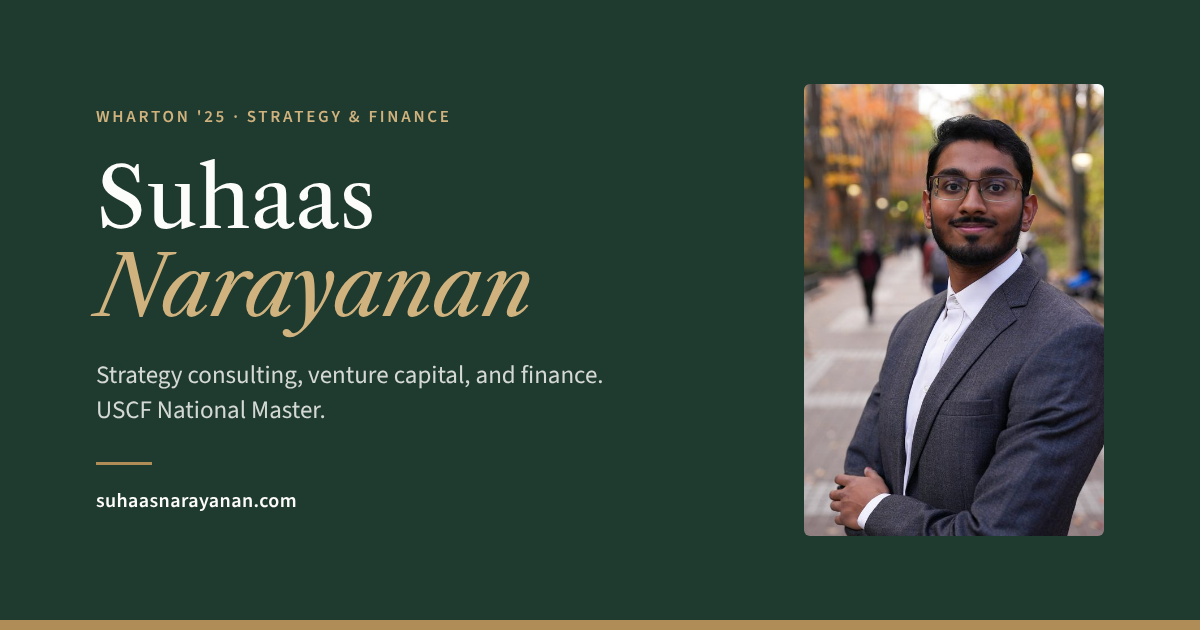
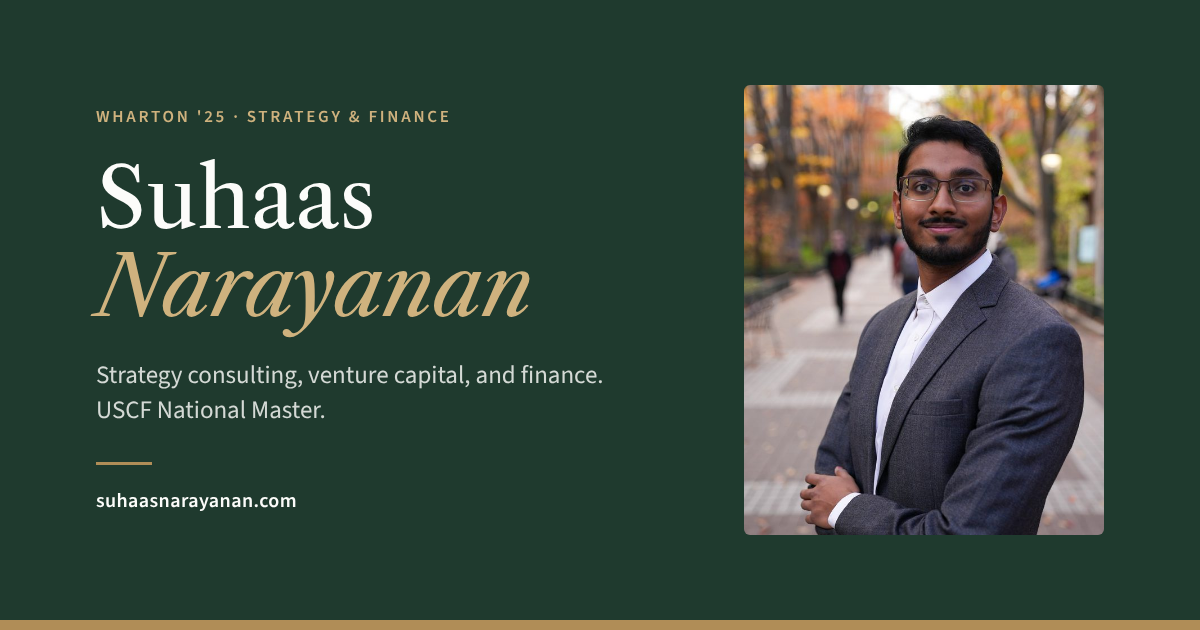
Link preview: show the full 4:5 headshot, matching the homepage
Claude-Session: https://claude.ai/code/session_019tTTKEimajXEDPjQ9YTaBZ

Changed region(s): [[0.6167, 0.1206, 0.925, 0.8746]]

diff --git a/projects/index.html b/projects/index.html
@@ -9,11 +9,11 @@
 <meta property="og:description" content="Projects by Suhaas Narayanan: real estate price prediction, Premier League goal modeling, a Hurricane Katrina natural experiment, a DocuSign LBO, a Maze Therapeutics VC valuation, and a chess rating chart.">
 <meta property="og:type" content="website">
 <meta property="og:site_name" content="Suhaas Narayanan">
-<meta property="og:image" content="https://suhaasnarayanan.com/og-home.png?v=3">
+<meta property="og:image" content="https://suhaasnarayanan.com/og-home.png?v=4">
 <meta property="og:image:width" content="1200">
 <meta property="og:image:height" content="630">
 <meta name="twitter:card" content="summary_large_image">
-<meta name="twitter:image" content="https://suhaasnarayanan.com/og-home.png?v=3">
+<meta name="twitter:image" content="https://suhaasnarayanan.com/og-home.png?v=4">
 <meta property="og:url" content="https://suhaasnarayanan.com/projects/">
 <link rel="canonical" href="https://suhaasnarayanan.com/projects/">
 <link rel="icon" href="/favicon.ico" sizes="48x48">

diff --git a/projects/premier-league/index.html b/projects/premier-league/index.html
@@ -9,11 +9,11 @@
 <meta property="og:description" content="An NBD model of goals scored by every Premier League player in 2023-24, asking whether the best scorers are really different from each other.">
 <meta property="og:type" content="article">
 <meta property="og:site_name" content="Suhaas Narayanan">
-<meta property="og:image" content="https://suhaasnarayanan.com/og-home.png?v=3">
+<meta property="og:image" content="https://suhaasnarayanan.com/og-home.png?v=4">
 <meta property="og:image:width" content="1200">
 <meta property="og:image:height" content="630">
 <meta name="twitter:card" content="summary_large_image">
-<meta name="twitter:image" content="https://suhaasnarayanan.com/og-home.png?v=3">
+<meta name="twitter:image" content="https://suhaasnarayanan.com/og-home.png?v=4">
 <meta property="og:url" content="https://suhaasnarayanan.com/projects/premier-league/">
 <link rel="canonical" href="https://suhaasnarayanan.com/projects/premier-league/">
 <link rel="icon" href="/favicon.ico" sizes="48x48">

diff --git a/projects/chess-ratings/index.html b/projects/chess-ratings/index.html
@@ -9,11 +9,11 @@
 <meta property="og:description" content="Every US Chess rated section Suhaas Narayanan has played since 2009, pulled from the US Chess ratings API and built into an interactive chart.">
 <meta property="og:type" content="article">
 <meta property="og:site_name" content="Suhaas Narayanan">
-<meta property="og:image" content="https://suhaasnarayanan.com/og-home.png?v=3">
+<meta property="og:image" content="https://suhaasnarayanan.com/og-home.png?v=4">
 <meta property="og:image:width" content="1200">
 <meta property="og:image:height" content="630">
 <meta name="twitter:card" content="summary_large_image">
-<meta name="twitter:image" content="https://suhaasnarayanan.com/og-home.png?v=3">
+<meta name="twitter:image" content="https://suhaasnarayanan.com/og-home.png?v=4">
 <meta property="og:url" content="https://suhaasnarayanan.com/projects/chess-ratings/">
 <link rel="canonical" href="https://suhaasnarayanan.com/projects/chess-ratings/">
 <link rel="icon" href="/favicon.ico" sizes="48x48">

diff --git a/projects/maze/index.html b/projects/maze/index.html
@@ -9,11 +9,11 @@
 <meta property="og:description" content="A Series E investment proposal for Maze Therapeutics: revenue forecast, valuation, term sheets, and investment memo. FNCE 2500, team of five.">
 <meta property="og:type" content="article">
 <meta property="og:site_name" content="Suhaas Narayanan">
-<meta property="og:image" content="https://suhaasnarayanan.com/og-home.png?v=3">
+<meta property="og:image" content="https://suhaasnarayanan.com/og-home.png?v=4">
 <meta property="og:image:width" content="1200">
 <meta property="og:image:height" content="630">
 <meta name="twitter:card" content="summary_large_image">
-<meta name="twitter:image" content="https://suhaasnarayanan.com/og-home.png?v=3">
+<meta name="twitter:image" content="https://suhaasnarayanan.com/og-home.png?v=4">
 <meta property="og:url" content="https://suhaasnarayanan.com/projects/maze/">
 <link rel="canonical" href="https://suhaasnarayanan.com/projects/maze/">
 <link rel="icon" href="/favicon.ico" sizes="48x48">

diff --git a/experience/index.html b/experience/index.html
@@ -9,11 +9,11 @@
 <meta property="og:description" content="Education and experience of Suhaas Narayanan: strategy consulting at Advancy, venture capital at Innosphere Ventures, chess coaching, and more.">
 <meta property="og:type" content="website">
 <meta property="og:site_name" content="Suhaas Narayanan">
-<meta property="og:image" content="https://suhaasnarayanan.com/og-home.png?v=3">
+<meta property="og:image" content="https://suhaasnarayanan.com/og-home.png?v=4">
 <meta property="og:image:width" content="1200">
 <meta property="og:image:height" content="630">
 <meta name="twitter:card" content="summary_large_image">
-<meta name="twitter:image" content="https://suhaasnarayanan.com/og-home.png?v=3">
+<meta name="twitter:image" content="https://suhaasnarayanan.com/og-home.png?v=4">
 <meta property="og:url" content="https://suhaasnarayanan.com/experience/">
 <link rel="canonical" href="https://suhaasnarayanan.com/experience/">
 <link rel="icon" href="/favicon.ico" sizes="48x48">

diff --git a/projects/katrina/index.html b/projects/katrina/index.html
@@ -9,11 +9,11 @@
 <meta property="og:description" content="A difference-in-differences study of Hurricane Katrina's effect on employment in 64 Louisiana counties. BEPP 2800, team of six.">
 <meta property="og:type" content="article">
 <meta property="og:site_name" content="Suhaas Narayanan">
-<meta property="og:image" content="https://suhaasnarayanan.com/og-home.png?v=3">
+<meta property="og:image" content="https://suhaasnarayanan.com/og-home.png?v=4">
 <meta property="og:image:width" content="1200">
 <meta property="og:image:height" content="630">
 <meta name="twitter:card" content="summary_large_image">
-<meta name="twitter:image" content="https://suhaasnarayanan.com/og-home.png?v=3">
+<meta name="twitter:image" content="https://suhaasnarayanan.com/og-home.png?v=4">
 <meta property="og:url" content="https://suhaasnarayanan.com/projects/katrina/">
 <link rel="canonical" href="https://suhaasnarayanan.com/projects/katrina/">
 <link rel="icon" href="/favicon.ico" sizes="48x48">

diff --git a/index.html b/index.html
@@ -9,11 +9,11 @@
 <meta property="og:description" content="Suhaas Narayanan: Wharton graduate with experience in strategy consulting, venture capital, and finance. USCF National Master in chess.">
 <meta property="og:type" content="profile">
 <meta property="og:site_name" content="Suhaas Narayanan">
-<meta property="og:image" content="https://suhaasnarayanan.com/og-home.png?v=3">
+<meta property="og:image" content="https://suhaasnarayanan.com/og-home.png?v=4">
 <meta property="og:image:width" content="1200">
 <meta property="og:image:height" content="630">
 <meta name="twitter:card" content="summary_large_image">
-<meta name="twitter:image" content="https://suhaasnarayanan.com/og-home.png?v=3">
+<meta name="twitter:image" content="https://suhaasnarayanan.com/og-home.png?v=4">
 <meta property="og:url" content="https://suhaasnarayanan.com/">
 <link rel="canonical" href="https://suhaasnarayanan.com/">
 <link rel="icon" href="/favicon.ico" sizes="48x48">
